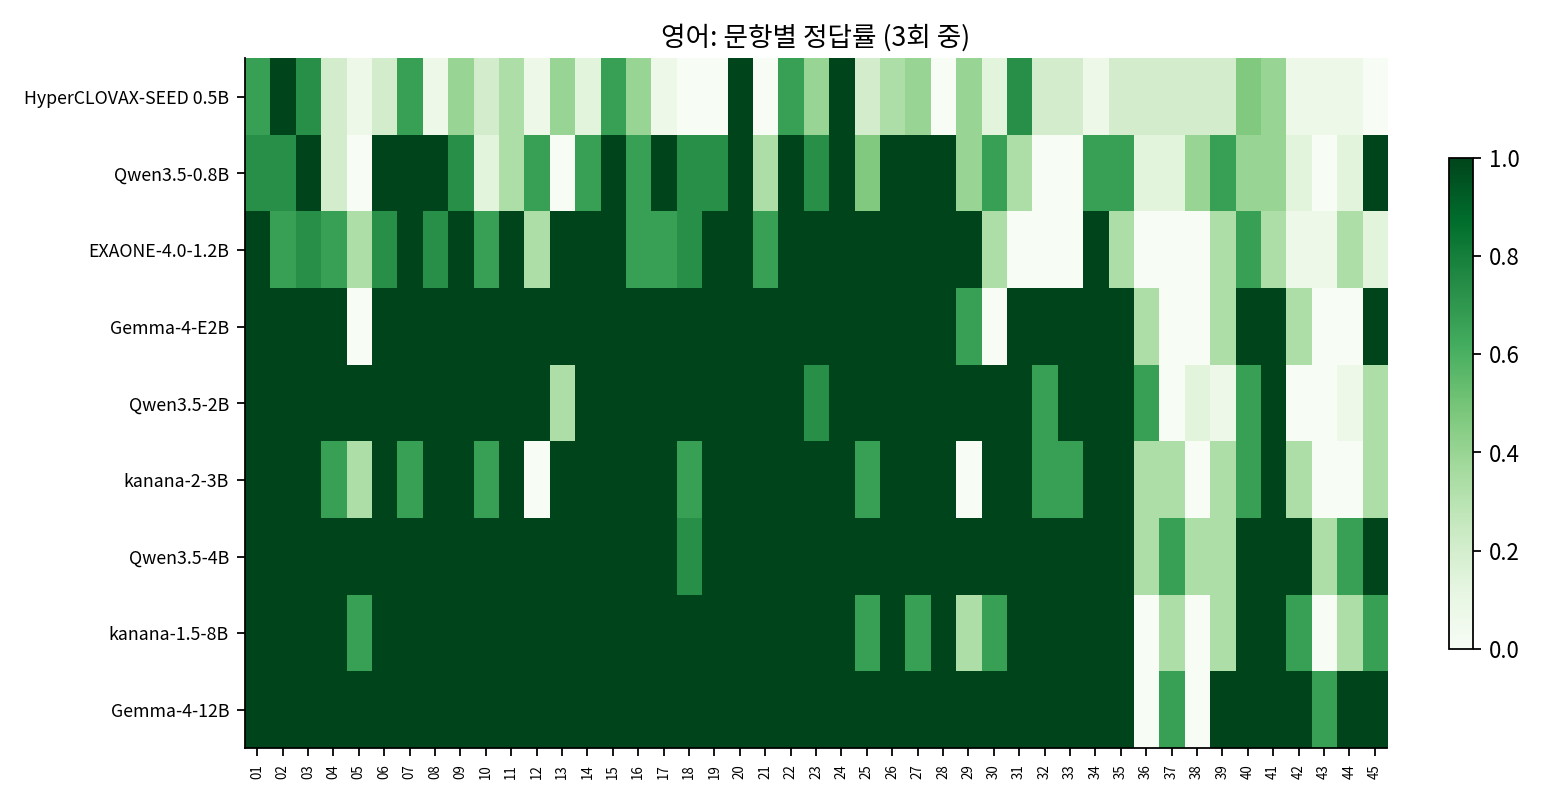
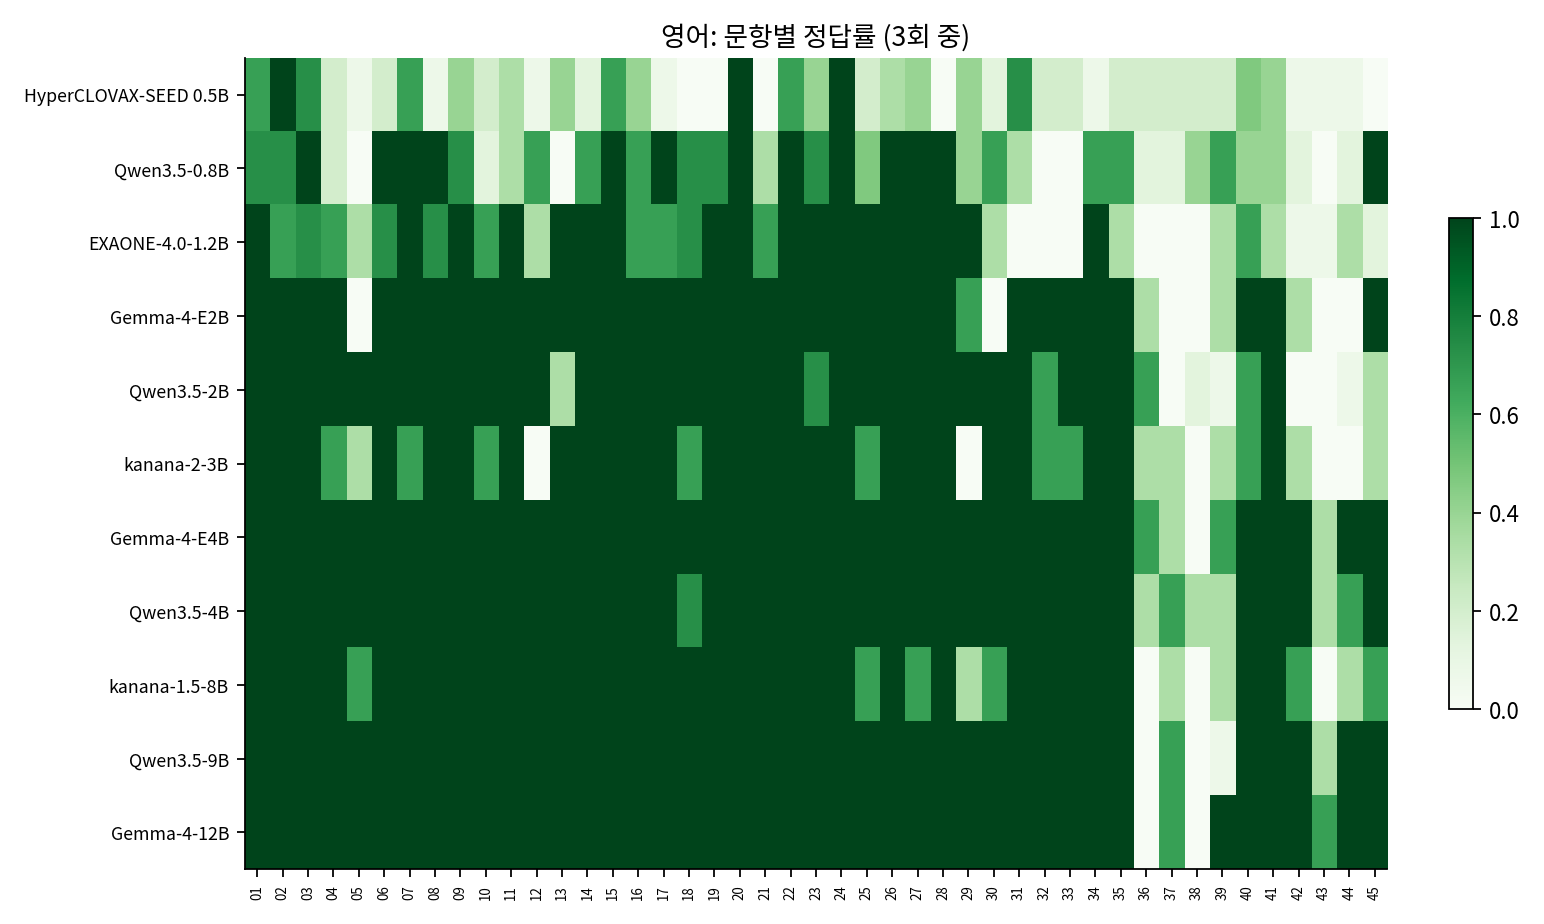
Update results (35 runs)

diff --git a/README.md b/README.md
@@ -12,7 +12,7 @@
 - **국어가 수학보다 어렵다.** 2B 이상 모델 기준으로 국어 정답률이 수학보다 평균 13%p 낮다. 2,000–4,000자 길이의 지문을 읽고 선택지 사이의 미묘한 차이를 가려내는 일이 작은 모델에게는 계산보다 어렵다.
 - **국산 모델**: HyperCLOVAX-SEED 0.5B(국어 18점, 수학 19점, 영어 30점), EXAONE-4.0-1.2B(국어 31점, 수학 75점, 영어 61점), kanana-2-3B(국어 34점, 수학 39점, 영어 73점), kanana-1.5-8B(국어 45점, 수학 42점, 영어 83점).
 
-> 마지막 업데이트: 2026-11-19 17:29 KST. 평가가 진행되는 동안 모델 하나가 끝날 때마다 이 페이지가 자동으로 갱신된다.
+> 마지막 업데이트: 2026-11-19 17:31 KST. 평가가 진행되는 동안 모델 하나가 끝날 때마다 이 페이지가 자동으로 갱신된다.
 
 ## 왜 소형 모델인가
 
@@ -87,10 +87,10 @@
 | Gemma-4-E2B | 구글 | 2.0 | 중급 스마트폰 | 67.9 <sub>(64–71)</sub> | 61.2 <sub>(59–63)</sub> | 75.0 <sub>(72–80)</sub> | 73.0 <sub>(69–77)</sub> | 76.3 <sub>(76–77)</sub> | 80.0 <sub>(78–83)</sub> |
 | Qwen3.5-2B | 알리바바 | 2.0 | 보급형 스마트폰 | 33.6 <sub>(31–36)</sub> | 37.7 <sub>(34–42)</sub> | 64.7 <sub>(63–66)</sub> | 59.9 <sub>(56–65)</sub> | 62.1 <sub>(61–63)</sub> | 80.4 <sub>(78–82)</sub> |
 | kanana-2-3B | 카카오 | 3.0 | 중급 스마트폰 | 32.5 <sub>(30–34)</sub> | 36.0 <sub>(29–40)</sub> | 42.6 <sub>(29–54)</sub> | 38.9 <sub>(28–51)</sub> | 36.3 <sub>(25–49)</sub> | 73.3 <sub>(68–80)</sub> |
-| Gemma-4-E4B | 구글 | 4.0 | 중급 스마트폰 | 77.2 <sub>(69–83)</sub> | 73.3 <sub>(67–77)</sub> | 82.7 <sub>(80–84)</sub> | 79.3 <sub>(77–81)</sub> | 88.0 <sub>(84–92)</sub> | — |
+| Gemma-4-E4B | 구글 | 4.0 | 중급 스마트폰 | 77.2 <sub>(69–83)</sub> | 73.3 <sub>(67–77)</sub> | 82.7 <sub>(80–84)</sub> | 79.3 <sub>(77–81)</sub> | 88.0 <sub>(84–92)</sub> | 93.0 <sub>(88–98)</sub> |
 | Qwen3.5-4B | 알리바바 | 4.0 | 중급 스마트폰 | 75.0 <sub>(71–81)</sub> | 70.7 <sub>(68–72)</sub> | 88.8 <sub>(86–92)</sub> | 85.9 <sub>(82–88)</sub> | 90.5 <sub>(82–96)</sub> | 91.8 <sub>(86–95)</sub> |
 | kanana-1.5-8B | 카카오 | 8.0 | 플래그십 스마트폰 | 44.7 <sub>(40–48)</sub> | 45.3 <sub>(44–47)</sub> | 43.0 <sub>(37–49)</sub> | 42.0 <sub>(40–46)</sub> | 41.0 <sub>(34–46)</sub> | 82.7 <sub>(77–89)</sub> |
-| Qwen3.5-9B | 알리바바 | 9.0 | 플래그십 스마트폰 | 87.7 <sub>(87–88)</sub> | 79.0 <sub>(76–81)</sub> | 90.4 <sub>(89–93)</sub> | 86.7 <sub>(82–92)</sub> | 92.8 <sub>(90–96)</sub> | — |
+| Qwen3.5-9B | 알리바바 | 9.0 | 플래그십 스마트폰 | 87.7 <sub>(87–88)</sub> | 79.0 <sub>(76–81)</sub> | 90.4 <sub>(89–93)</sub> | 86.7 <sub>(82–92)</sub> | 92.8 <sub>(90–96)</sub> | 90.9 <sub>(89–93)</sub> |
 | Gemma-4-12B | 구글 | 12.0 | 노트북·태블릿 | 91.7 <sub>(88–95)</sub> | 86.2 <sub>(78–93)</sub> | 88.5 <sub>(86–90)</sub> | 81.6 <sub>(82–82)</sub> | 88.5 <sub>(86–90)</sub> | 94.3 <sub>(91–96)</sub> |
 | Qwen3-14B | 알리바바 | 14.8 | 노트북·태블릿 | 72.0 <sub>(68–77)</sub> | 64.7 <sub>(64–66)</sub> | 91.7 <sub>(90–96)</sub> | 87.2 <sub>(85–89)</sub> | 92.8 <sub>(93–93)</sub> | — |
 
@@ -137,10 +137,10 @@
 | Gemma-4-E2B | 0.59 / 0.58 / 0.00 / 0.00 / 1897 | 0.71 / 0.71 / 0.00 / 0.00 / 3471 | 0.81 / 0.81 / 0.00 / 0.00 / 1278 |
 | Qwen3.5-2B | 0.34 / 0.29 / 0.23 / 0.25 / 12221 | 0.63 / 0.59 / 0.37 / 0.37 / 10424 | 0.81 / 0.81 / 0.04 / 0.05 / 7274 |
 | kanana-2-3B | 0.34 / 0.33 / 0.00 / 0.00 / 176 | 0.39 / 0.39 / 0.01 / 0.00 / 596 | 0.74 / 0.74 / 0.00 / 0.00 / 135 |
-| Gemma-4-E4B | 0.70 / 0.69 / 0.02 / 0.00 / 1955 | 0.81 / 0.81 / 0.01 / 0.00 / 3955 | — |
+| Gemma-4-E4B | 0.70 / 0.69 / 0.02 / 0.00 / 1955 | 0.81 / 0.81 / 0.01 / 0.00 / 3955 | 0.93 / 0.93 / 0.00 / 0.00 / 1105 |
 | Qwen3.5-4B | 0.70 / 0.70 / 0.04 / 0.07 / 8813 | 0.88 / 0.87 / 0.12 / 0.12 / 7250 | 0.92 / 0.92 / 0.01 / 0.00 / 3809 |
 | kanana-1.5-8B | 0.42 / 0.42 / 0.00 / 0.00 / 343 | 0.43 / 0.43 / 0.01 / 0.00 / 857 | 0.83 / 0.83 / 0.00 / 0.00 / 217 |
-| Qwen3.5-9B | 0.80 / 0.79 / 0.07 / 0.07 / 7616 | 0.90 / 0.89 / 0.11 / 0.11 / 7024 | — |
+| Qwen3.5-9B | 0.80 / 0.79 / 0.07 / 0.07 / 7616 | 0.90 / 0.89 / 0.11 / 0.11 / 7024 | 0.91 / 0.91 / 0.01 / 0.01 / 3250 |
 | Gemma-4-12B | 0.86 / 0.86 / 0.05 / 0.05 / 5240 | 0.89 / 0.88 / 0.12 / 0.12 / 6271 | 0.94 / 0.94 / 0.00 / 0.00 / 1211 |
 | Qwen3-14B | 0.62 / 0.62 / 0.00 / 0.00 / 1395 | 0.91 / 0.90 / 0.10 / 0.09 / 4721 | — |
 
